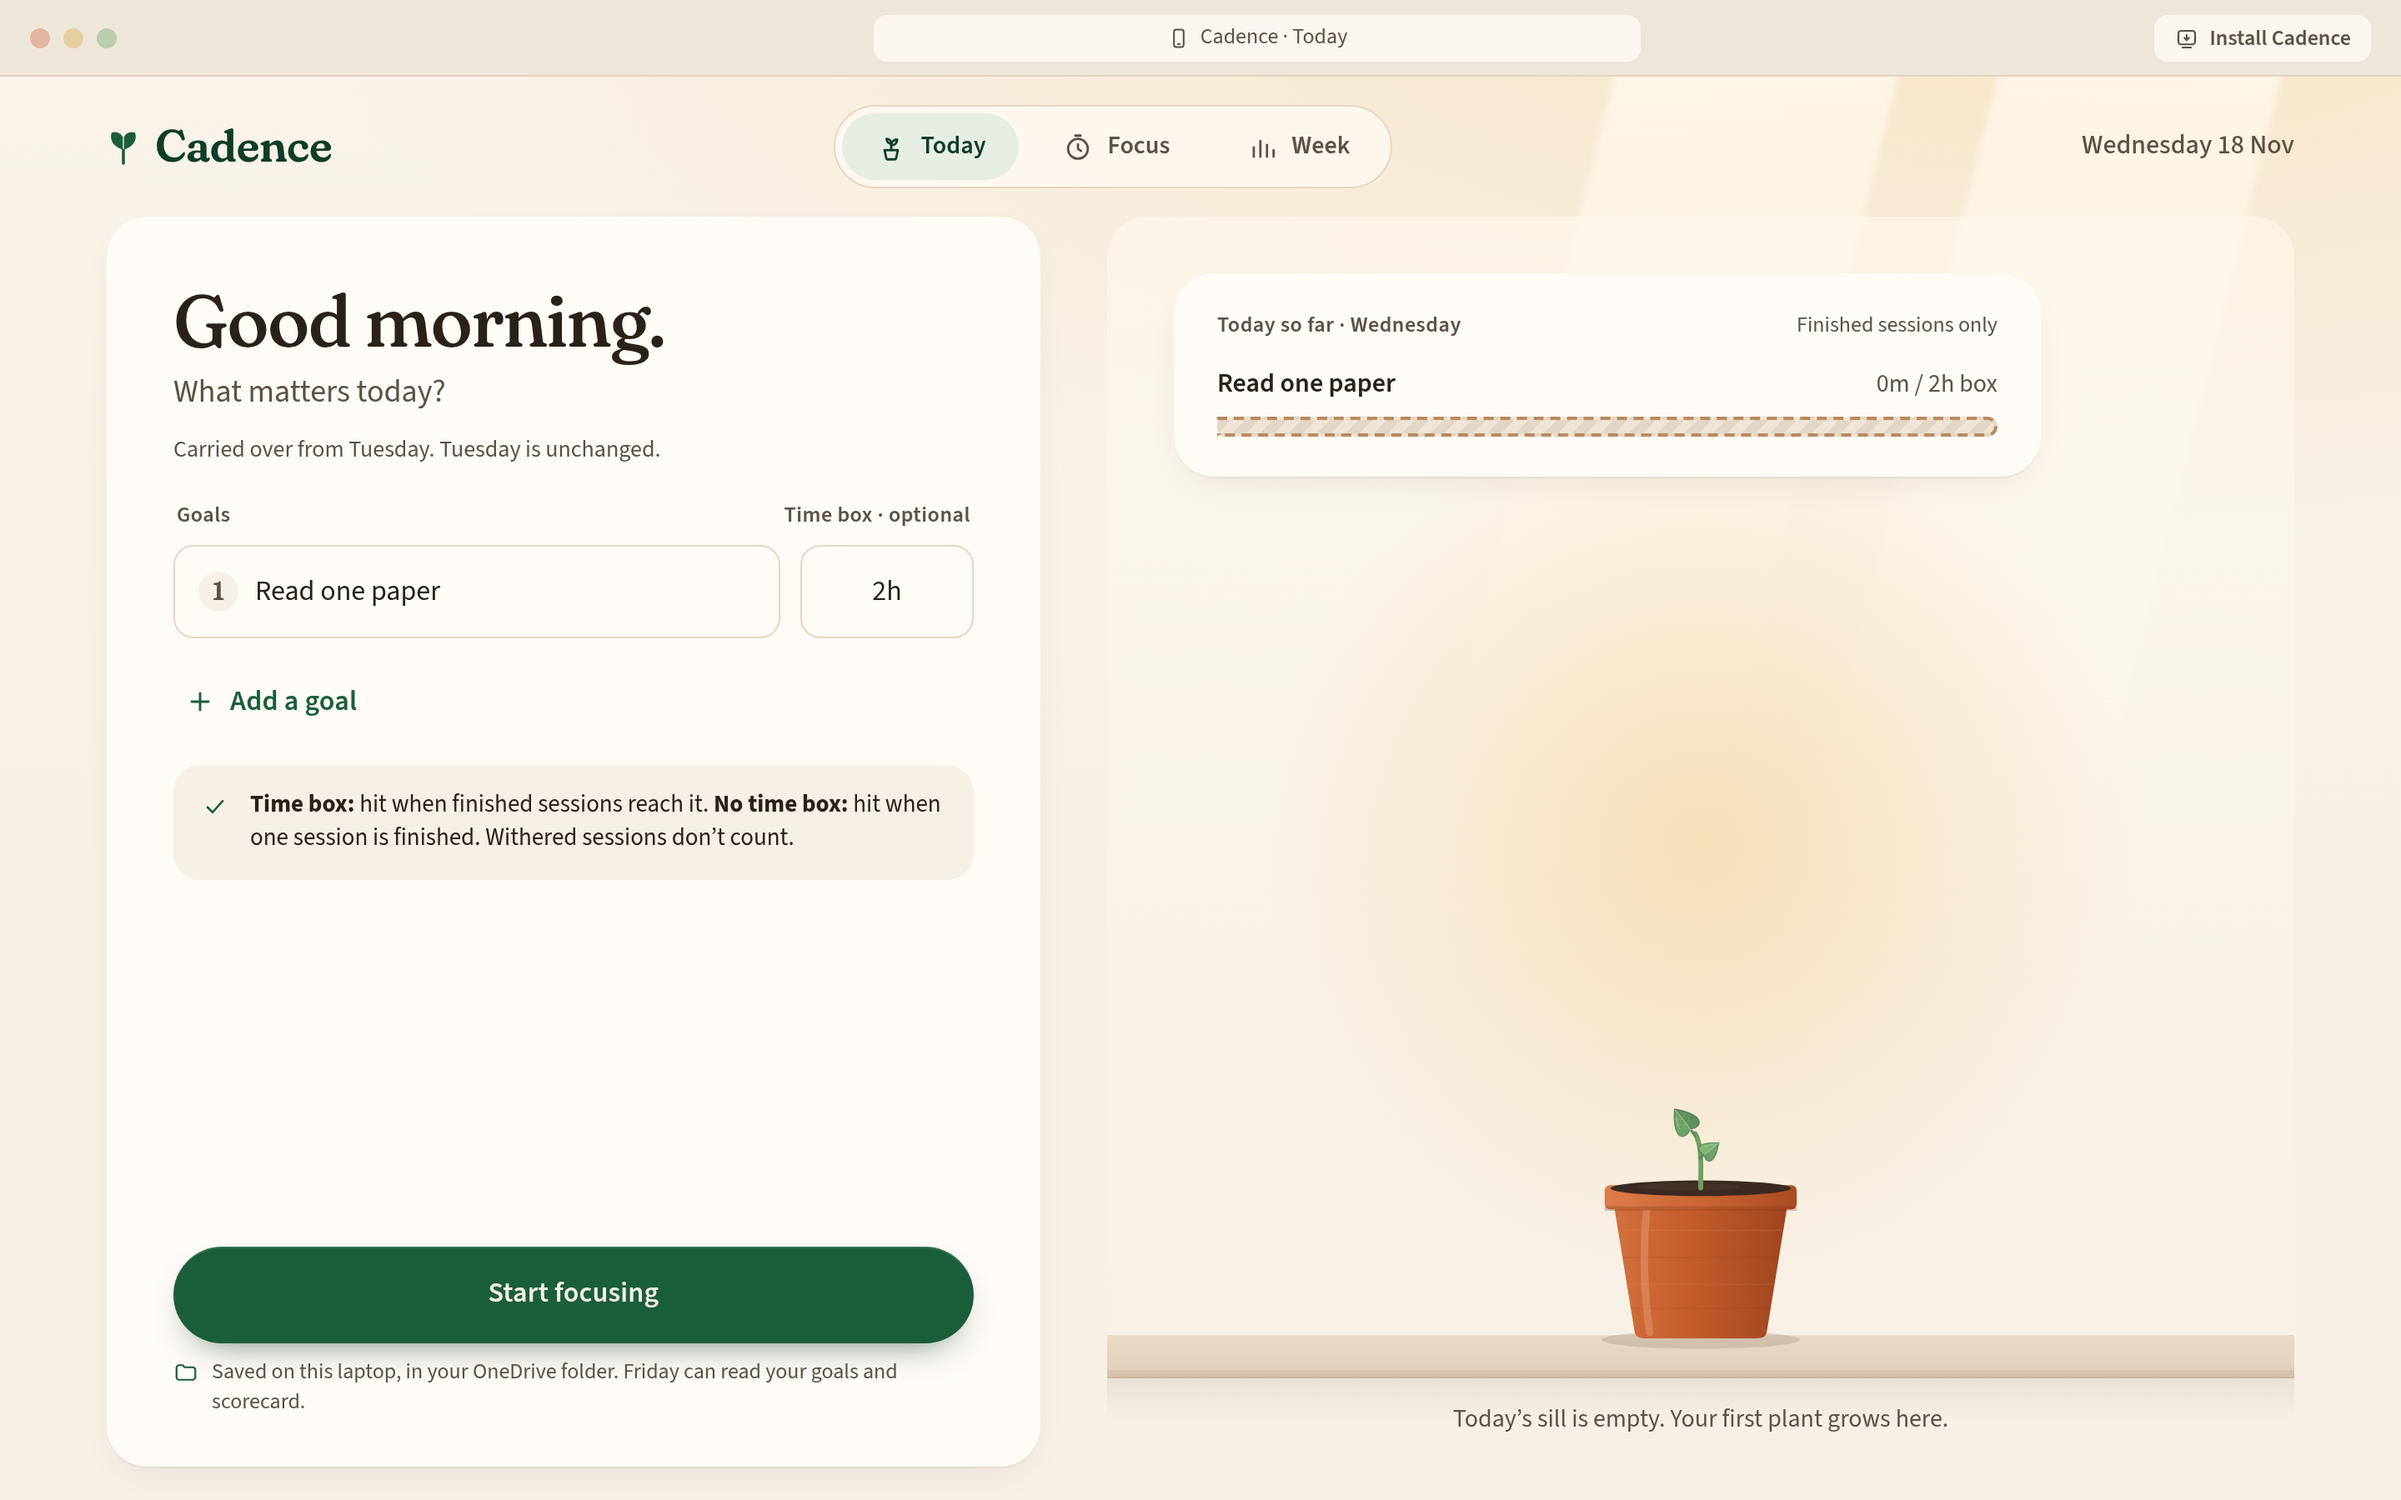
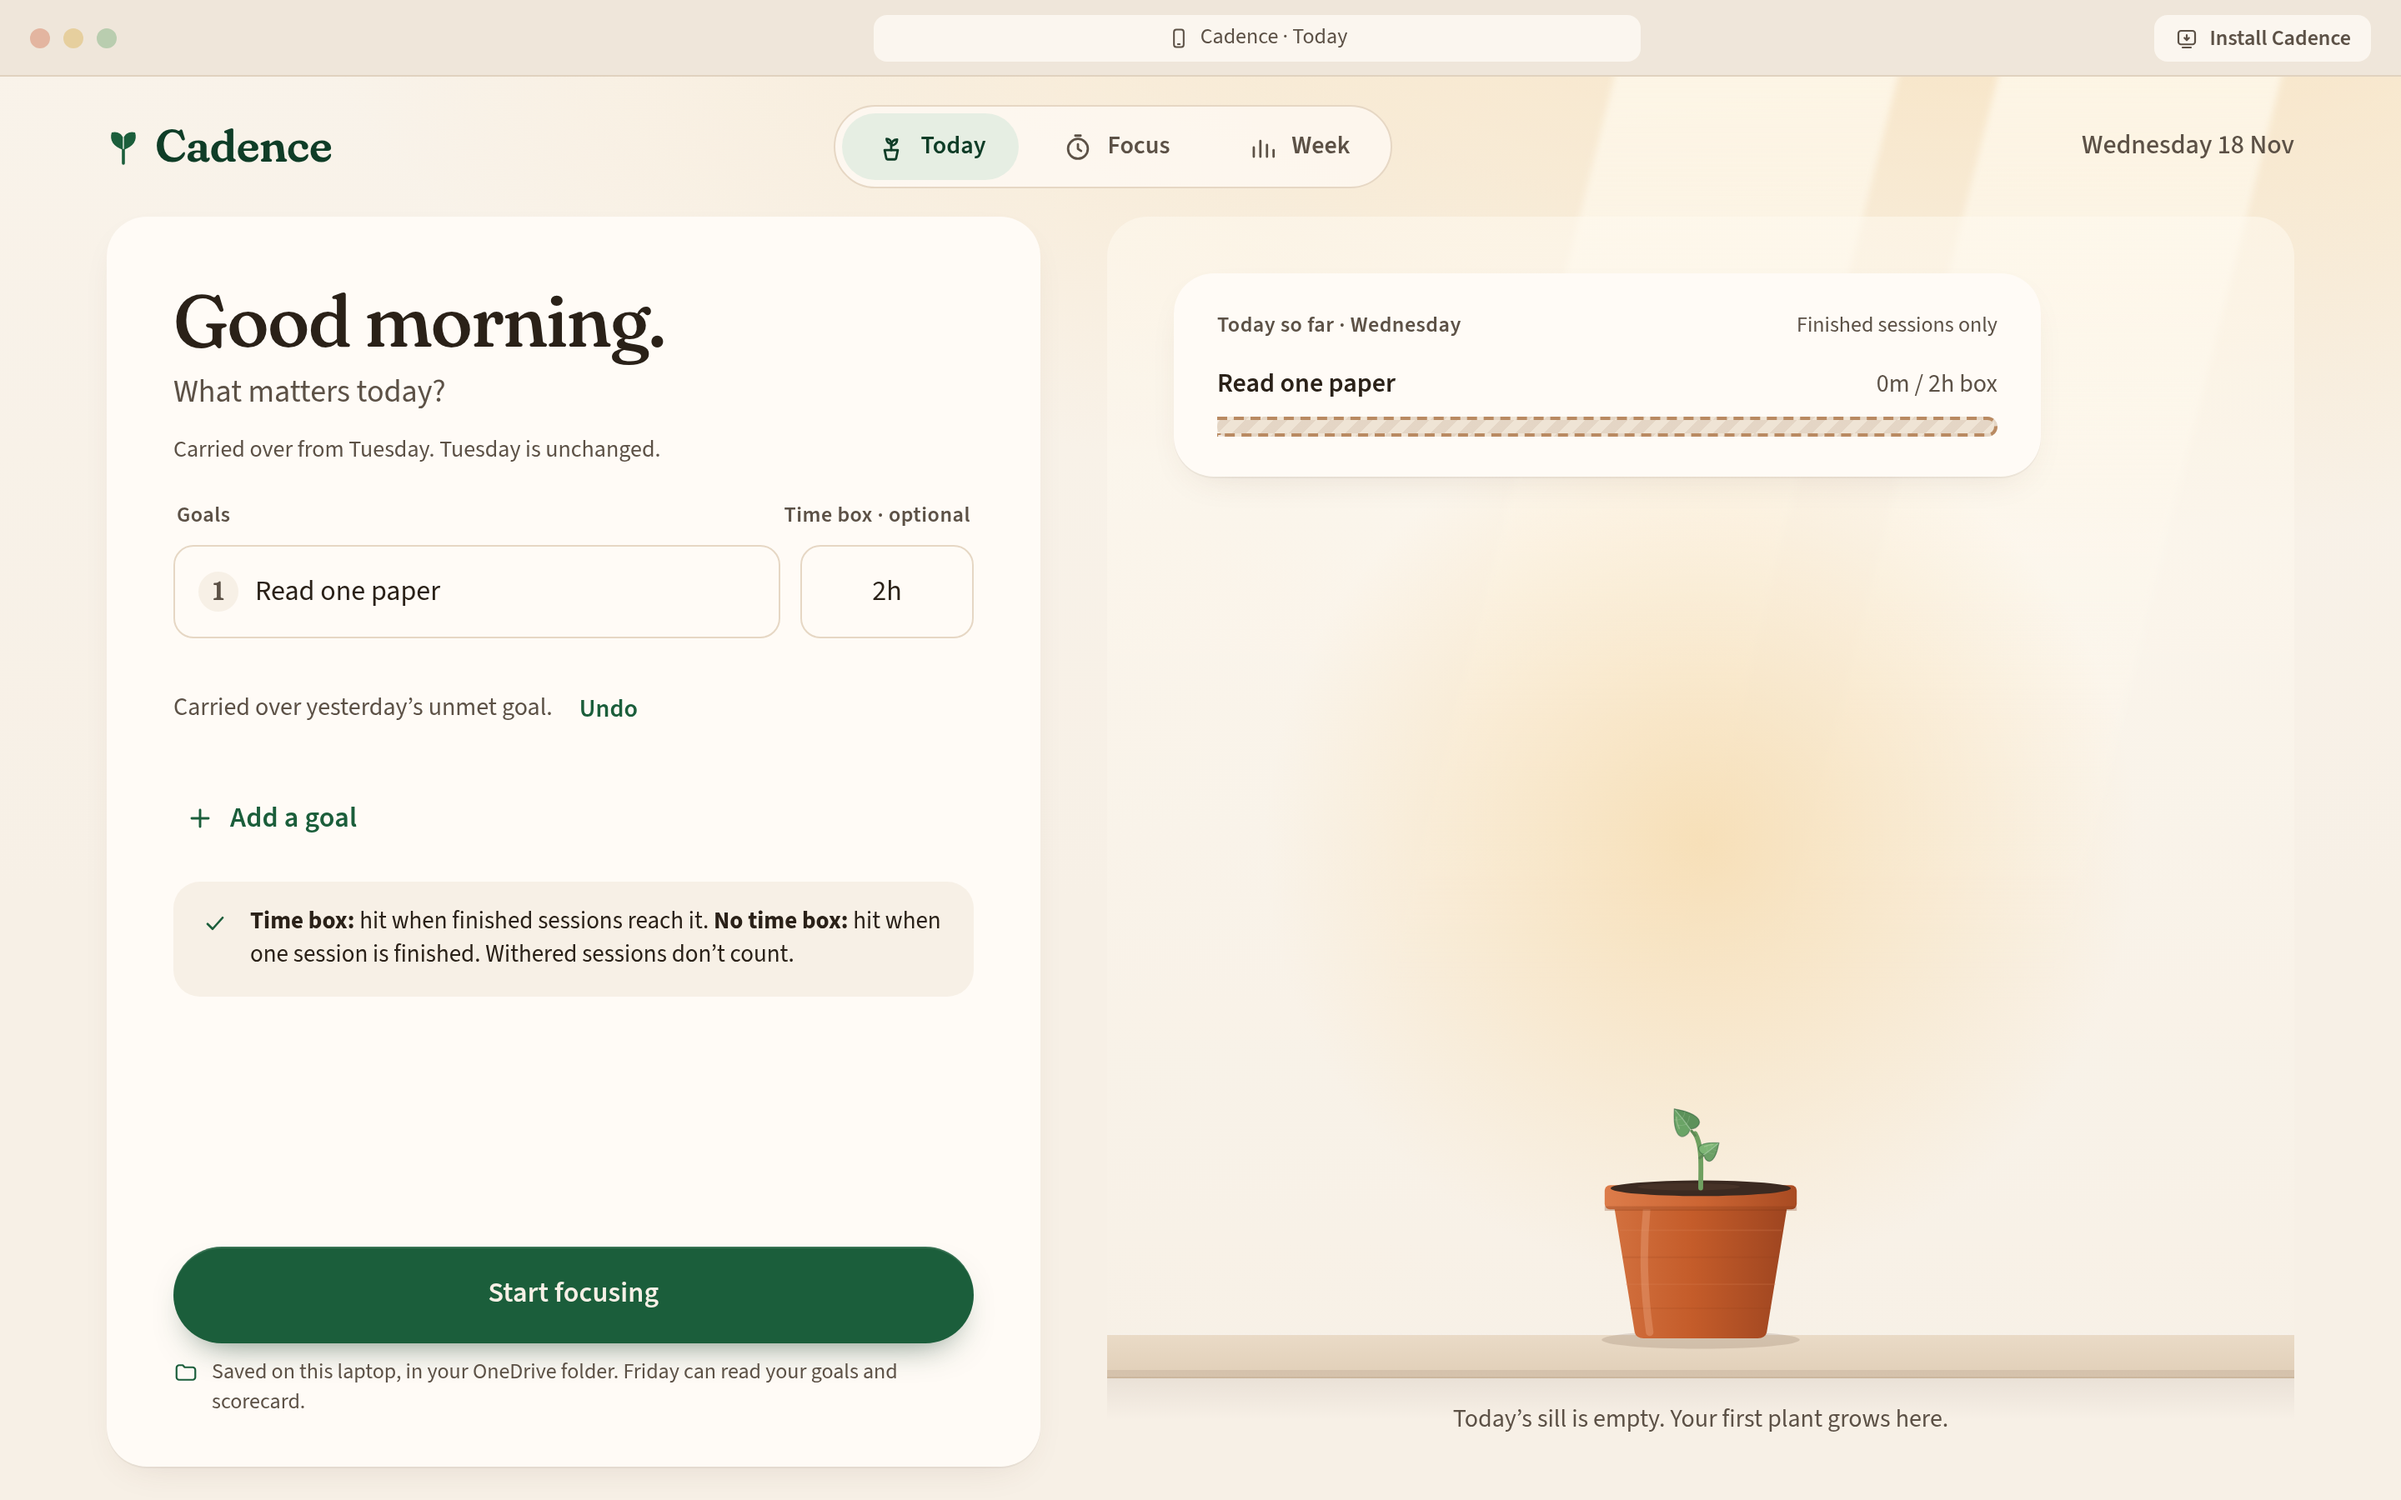
Design: DEV-31 after-carry mock shows the inline Undo line
Same component as the remove-goal Undo line. The 5 s toast is not used.

Changed region(s): [[0.0938, 0.5911, 0.375, 0.6533], [0.0938, 0.5289, 0.375, 0.56], [0.0625, 0.4667, 0.2188, 0.4978]]

diff --git a/reviews/dev31/html/l1d-after-carry.html b/reviews/dev31/html/l1d-after-carry.html
@@ -284,6 +284,9 @@ body{font-family:var(--font-ui);color:var(--text);-webkit-font-smoothing:antiali
 .carry .btn.primary{height:48px;font-size:16px}
 .carry .btn.text{align-self:center;color:var(--leaf-deep);font-size:15px;height:36px}
 .note-quiet{font-size:14px;color:var(--text-muted);margin-top:10px}
+
+.removed{display:flex;align-items:center;gap:8px;min-height:56px;margin:0;font-size:15px;color:var(--text-muted)}
+.removed .undo{align-self:center;height:44px;min-width:44px;padding:0 8px;font:600 15px/1 var(--font-ui);color:var(--leaf);background:none;border:0;width:auto;letter-spacing:.005em;cursor:default}
 </style></head><body style="width:1440px;height:900px;overflow:hidden"><div class="win"><div class="chrome"><div class="lights"><i></i><i></i><i></i></div><div class="url"><svg class="ic " width="14" height="14" viewBox="0 0 24 24" fill="none" stroke="currentColor" stroke-width="1.75" stroke-linecap="round" stroke-linejoin="round"><rect x="7" y="3" width="10" height="18" rx="2.5"/><path d="M11 18h2"/></svg> Cadence · Today</div><div class="inst"><svg class="ic" width="15" height="15" viewBox="0 0 24 24" fill="none" stroke="currentColor" stroke-width="1.75" stroke-linecap="round" stroke-linejoin="round"><rect x="4" y="4" width="16" height="13" rx="2.5"/><path d="M12 8v5m0 0-2.2-2.2M12 13l2.2-2.2"/><path d="M8 20h8"/></svg> Install Cadence</div></div><div class="light"></div><div class="pane" style="left:900px;top:40px;height:560px;width:170px"></div><div class="pane" style="left:1130px;top:40px;height:560px;width:170px"></div>
     <div class="lap"><div class="lbar"><div class="word cad"><svg width="20" height="22" viewBox="0 0 20 22" aria-hidden="true"><path d="M10 21V12" stroke="#1B5E3B" stroke-width="1.8" stroke-linecap="round"/><path d="M10 13 C4 11 1.5 7 3 2.5 C6 1.5 9 3 10 6 C11 3 14 1.5 17 2.5 C18.5 7 16 11 10 13Z" fill="#1B5E3B"/><path d="M10 12V6" stroke="#E6EEE3" stroke-width="1" stroke-linecap="round" opacity=".7"/></svg>Cadence</div><div class="ltabs"><a class="on"><svg class="ic " width="19" height="19" viewBox="0 0 24 24" fill="none" stroke="currentColor" stroke-width="1.75" stroke-linecap="round" stroke-linejoin="round"><path d="M7 14h10l-1.3 6.2a1 1 0 0 1-1 .8H9.3a1 1 0 0 1-1-.8z"/><path d="M12 14V9"/><path d="M12 10.5c0-2.6 1.8-4.5 4.5-4.5 0 2.6-1.9 4.5-4.5 4.5z"/><path d="M12 9c0-2-1.4-3.5-3.5-3.5 0 2 1.4 3.5 3.5 3.5z"/></svg>Today</a><a class=""><svg class="ic " width="19" height="19" viewBox="0 0 24 24" fill="none" stroke="currentColor" stroke-width="1.75" stroke-linecap="round" stroke-linejoin="round"><circle cx="12" cy="13" r="7.5"/><path d="M12 9.5V13l2.4 1.6"/><path d="M10 3h4"/></svg>Focus</a><a class=""><svg class="ic " width="19" height="19" viewBox="0 0 24 24" fill="none" stroke="currentColor" stroke-width="1.75" stroke-linecap="round" stroke-linejoin="round"><path d="M5 19V12"/><path d="M10 19V7"/><path d="M15 19v-9"/><path d="M20 19v-5"/></svg>Week</a></div><div class="date">Wednesday 18 Nov</div></div>
     <div class="l1"><div class="panel left">
@@ -292,6 +295,7 @@ body{font-family:var(--font-ui);color:var(--text);-webkit-font-smoothing:antiali
       <p class="note-quiet">Carried over from Tuesday. Tuesday is unchanged.</p>
       <div class="goals" style="margin-top:20px"><div class="lbls"><span class="label">Goals</span><span class="label" style="text-align:right">Time box · optional</span></div>
         <div class="grow"><div class="field"><span class="num">1</span>Read one paper</div><div class="field tb tab">2h</div></div>
+        <p class="removed" role="status">Carried over yesterday’s unmet goal. <button type="button" class="btn text undo">Undo</button></p>
         <button class="btn text" style="align-self:flex-start;margin-top:2px"><svg class="ic " width="20" height="20" viewBox="0 0 24 24" fill="none" stroke="currentColor" stroke-width="1.75" stroke-linecap="round" stroke-linejoin="round"><path d="M12 6v12M6 12h12"/></svg> Add a goal</button></div>
       <div class="rulebox" style="margin-top:16px"><svg class="ic " width="18" height="18" viewBox="0 0 24 24" fill="none" stroke="currentColor" stroke-width="1.75" stroke-linecap="round" stroke-linejoin="round"><path d="M6 12.5l4 4 8-9"/></svg><div><b>Time box:</b> hit when finished sessions reach it. <b>No time box:</b> hit when one session is finished. Withered sessions don’t count.</div></div>
       <div style="margin-top:auto"><button class="btn primary" style="height:58px">Start focusing</button><div class="foot" style="margin-top:8px"><svg class="ic " width="15" height="15" viewBox="0 0 24 24" fill="none" stroke="currentColor" stroke-width="1.75" stroke-linecap="round" stroke-linejoin="round"><path d="M3 7.5A2.5 2.5 0 0 1 5.5 5H9l1.8 2H18.5A2.5 2.5 0 0 1 21 9.5v7A2.5 2.5 0 0 1 18.5 19h-13A2.5 2.5 0 0 1 3 16.5z"/></svg> Saved on this laptop, in your OneDrive folder. Friday can read your goals and scorecard.</div></div>
